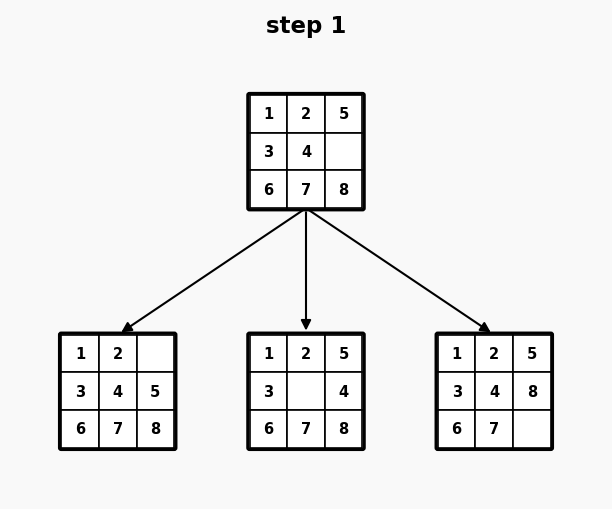
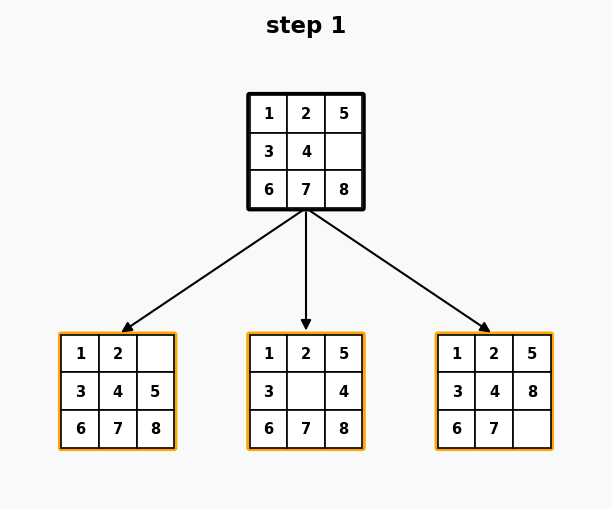
added colours and last tree

Changed region(s): [[0.683, 0.6483, 0.9314, 0.8841], [0.4036, 0.6483, 0.6209, 0.8841], [0.0931, 0.6483, 0.3105, 0.8841]]

diff --git a/visualizer/implement_visualizer/implement_visualizer.py b/visualizer/implement_visualizer/implement_visualizer.py
@@ -125,7 +125,7 @@ class tree_visualizer:
             return layout, (max(fig_w, 4), max(fig_h, 4))
 
 
-    def draw_grid(self, ax, state, cx, cy, red=False, orange=False):
+    def draw_grid(self, ax, state, cx, cy, colour):
         """
         Draw a 3x3 puzzle grid centred at (cx, cy).
         red=True  → red outer border instead of black.
@@ -134,11 +134,11 @@ class tree_visualizer:
         x0 = cx - self.HALF # first cell's left edge
         y0 = cy - self.HALF # first cell's bottom edge
 
-        border_color = "red" if red else "orange" if orange else "black"
+        border_color = colour if colour is not None else "black"
         ax.add_patch(patches.FancyBboxPatch(
             (x0, y0), self.GRID, self.GRID,
             boxstyle="round,pad=0.01",
-            linewidth=2.0 if red else 1.5,
+            linewidth=2.0 if border_color == "red" else 1.5,
             edgecolor=border_color, facecolor="white", zorder=2))
 
         for i in range(3):
@@ -198,23 +198,9 @@ class tree_visualizer:
         # draw grids on top
         for node in tree.nodes:
             cx, cy = layout[node.id]
-            self.draw_grid(ax, node.state, cx, cy, red=False, orange=False) #*****************
+            self.draw_grid(ax, node.state, cx, cy, colour=node.colour)
 
         ax.set_title(title, fontsize=11, fontweight="bold", pad=8)
         plt.tight_layout()
         plt.savefig(out_file, dpi=150, bbox_inches="tight")
         print(f"Saved → {out_file}")
-
-if __name__ == "__main__":
-    # example usage
-    from adapter import tree_data, tree_data_node
-
-    nodes = [
-        tree_data_node(1, [1,2,3,4,5,6,7,8,0], 1, None, "Start", False),
-        tree_data_node(2, [1,2,3,4,5,6,7,0,8], 2, 1, "Move 8 left", False),
-        tree_data_node(3, [1,2,3,4,5,6,0,7,8], 2, 1, "Move 7 up", True),
-        tree_data_node(4, [1,2,3,4,5,0,7,8], 3, 2, "Move 6 up", False),
-    ]
-    tree = tree_data(nodes)
-    drawer = tree_visualizer()
-    drawer.render_tree(tree=tree, title="Example Search Tree", out_file="example_tree.png")

diff --git a/algorithms/algorithms.py b/algorithms/algorithms.py
@@ -38,6 +38,8 @@ class algorithms:
             search_frontier.remove(state)
 
             if state.is_goal():
+                if visual_output:
+                    visualizer.draw(explored, search_frontier, final_state=state, title=f"step {counter} (goal)", out_file=f"output/{counter}.png") # type: ignore
                 return algorithms.result(explored, search_frontier, start, state, state.get_path())
 
             for neighbor in state.neighbors:

diff --git a/visualizer/implement_visualizer/adapter.py b/visualizer/implement_visualizer/adapter.py
@@ -19,7 +19,7 @@ class tree_data:
         if heuristic is not None:
             label = f"{heuristic}"
 
-        node = tree_data_node(id, state, level, parent_id, label, heuristic, colour)
+        node = tree_data_node(id, state, level, parent_id, label, heuristic, "black" if colour is None else colour)
         self.nodes.append(node)
 
 class state_to_tree_adapter(tree_data):
